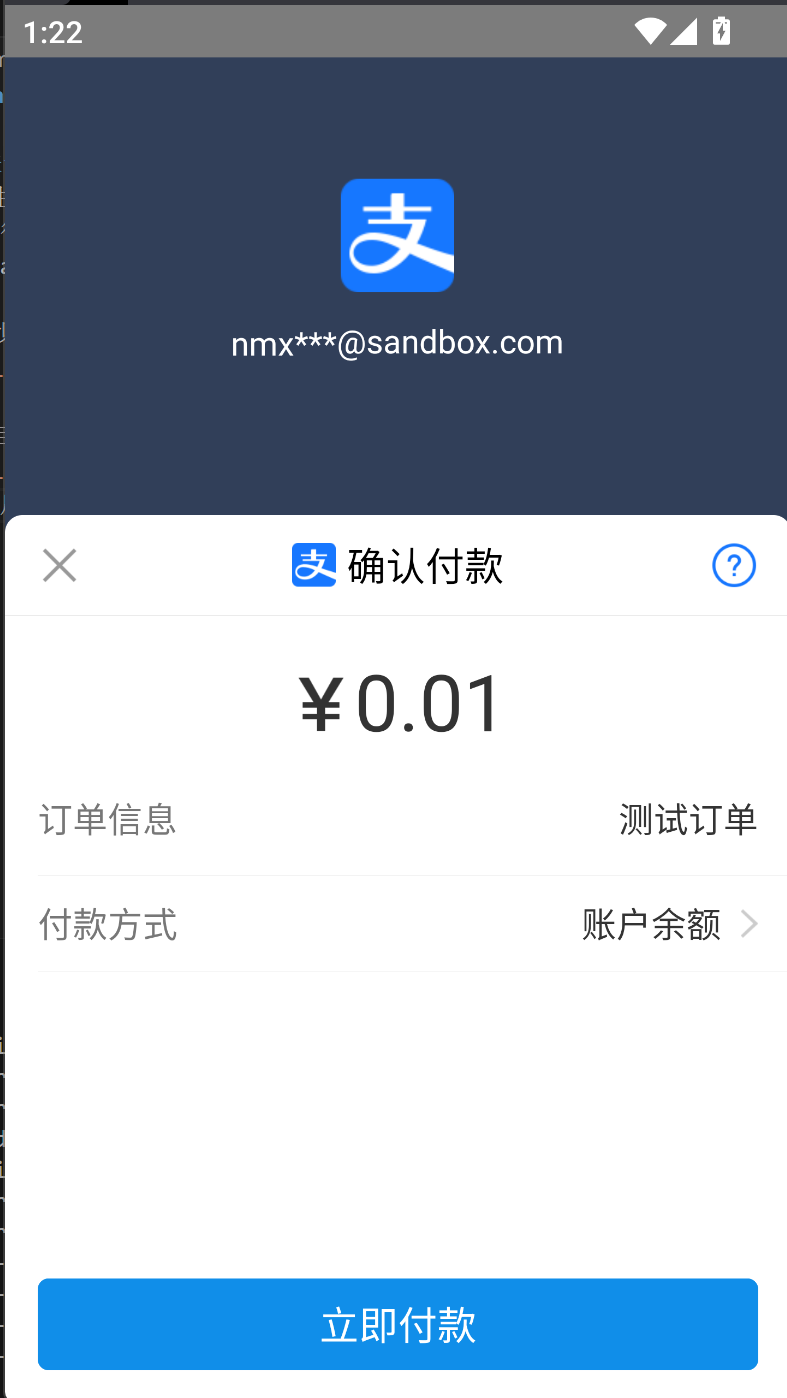
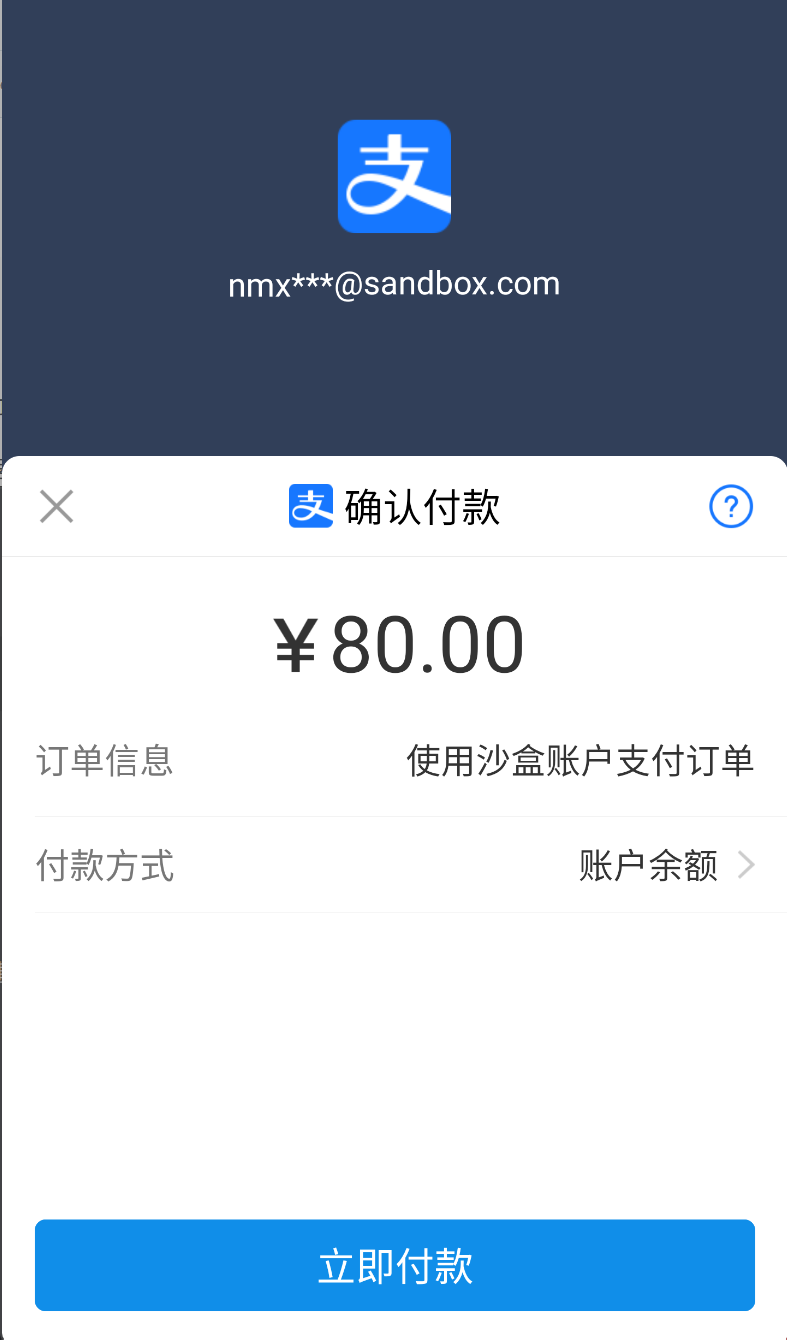
修改订单信息
修改订单信息

diff --git a/frontEnd/CarSharingApp/App.vue b/frontEnd/CarSharingApp/App.vue
@@ -18,8 +18,8 @@ export default {
   // 全局变量, 这个属性名称只能为 globalData
   globalData: {
     // base url 一定是 10.0.2.2 表示在模拟器看来 主机的代理 ip 地址
-    // base_url: "http://10.0.2.2:5555", // 端口改成了 5555
-    base_url: "http://127.0.0.1:5555",
+    base_url: "http://10.0.2.2:5555", // 端口改成了 5555
+    // base_url: "http://127.0.0.1:5555",
     api_key: "81708c4f856b6a0c5722ae083d93afa6",
   },
 };

diff --git a/backEnd/CarSharingApp/app.py b/backEnd/CarSharingApp/app.py
@@ -51,11 +51,11 @@ def error(code, msg, http_status=400):
 @app.route('/order', methods=['GET', 'POST'])
 # App 支付，将 order_string 返回给 app 即可
 def create_order():
-    subject = "测试订单"
+    subject = "使用沙盒账户支付订单"
     alipay = create_alipay()
     order_string = alipay.api_alipay_trade_app_pay(
         out_trade_no=generate_order_number(),
-        total_amount=0.01,
+        total_amount=80.00,
         subject=subject,
         # notify_url="https://example.com/notify" # 可选，不填则使用默认 notify url
     )
